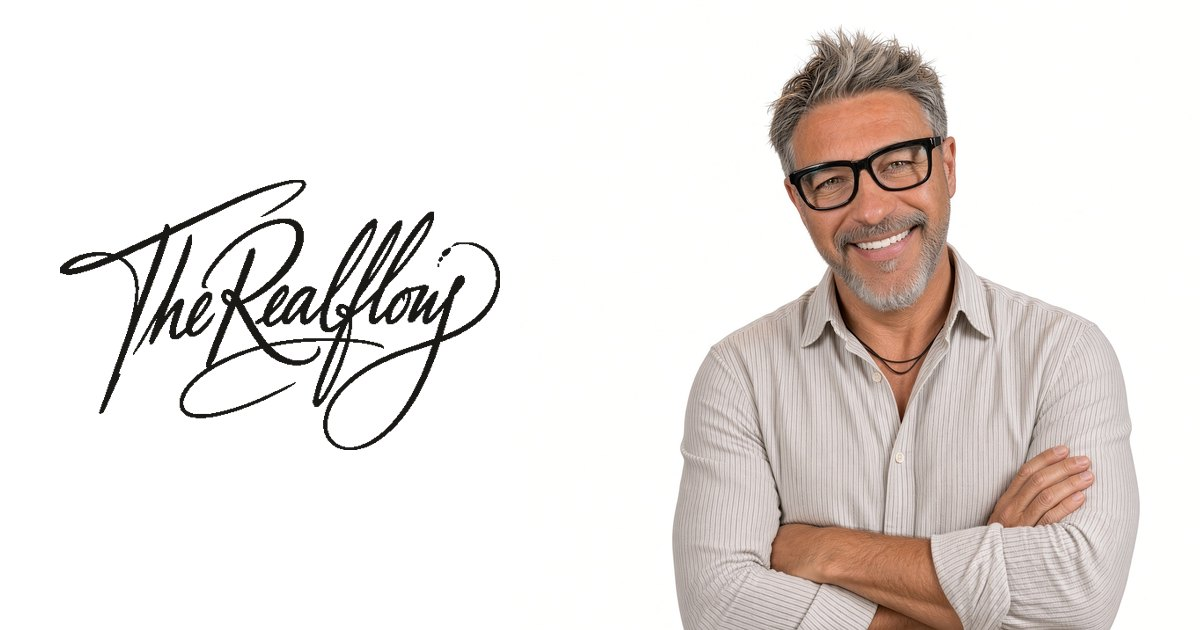
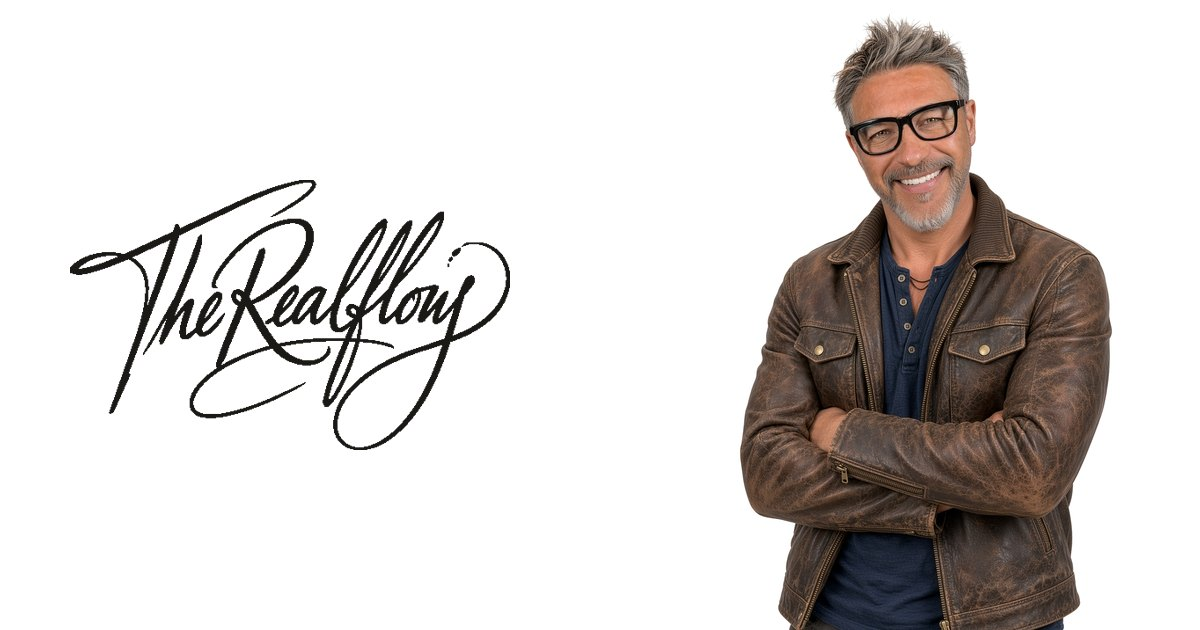
Home: the visitor is the hero, Mario is the guide; new portrait
Claude-Session: https://claude.ai/code/session_01L21yEndiAXzMD8iK1UpgL9

diff --git a/assets/site.css b/assets/site.css
@@ -314,14 +314,18 @@ p { margin: 0 0 1em; }
 .hero__hello { font: italic 500 clamp(1.6rem, 2.6vw, 2.1rem)/1 var(--serif); color: var(--gold-text); margin: 0 0 14px; }
 .hero h1 { font-size: clamp(2.8rem, 5.8vw, 5.2rem); max-width: 11ch; }
 .hero__for { margin: 22px 0 0; color: var(--muted); font-size: 0.95rem; }
-.hero__mario { margin: 0; justify-self: end; width: min(600px, 100%); }
+.hero__mario { margin: 0; justify-self: end; width: min(480px, 100%); margin-right: 24px; }
 .hero__mario img { width: 100%; height: auto; display: block; margin-bottom: -2px; mix-blend-mode: multiply; }
 .about-strip--text { grid-template-columns: 1fr; max-width: 760px; }
 @media (max-width: 860px) {
   .hero { padding-top: 28px; }
   .hero__in { grid-template-columns: 1fr; gap: 0; }
   .hero__copy { padding-bottom: 8px; }
-  .hero__mario { justify-self: center; width: min(460px, 100%); }
+  .hero__mario { justify-self: center; width: min(380px, 86%); margin-right: 0; margin-top: 24px; }
 }
 @media (max-width: 640px) { .logo img { height: 46px; } }
 .hero__mario img { -webkit-mask-image: linear-gradient(to right, transparent 0, #000 9%, #000 91%, transparent 100%); mask-image: linear-gradient(to right, transparent 0, #000 9%, #000 91%, transparent 100%); }
+.hero h1 { max-width: 12ch; }
+.guide { display: grid; gap: 2px; margin-top: 40px; padding-left: 16px; border-left: 2px solid var(--gold); text-decoration: none; color: var(--ink-2); font-size: 0.97rem; line-height: 1.45; max-width: 44ch; }
+.guide__name { font-weight: 500; color: var(--ink); }
+.guide:hover .guide__name { color: var(--gold-text); }
